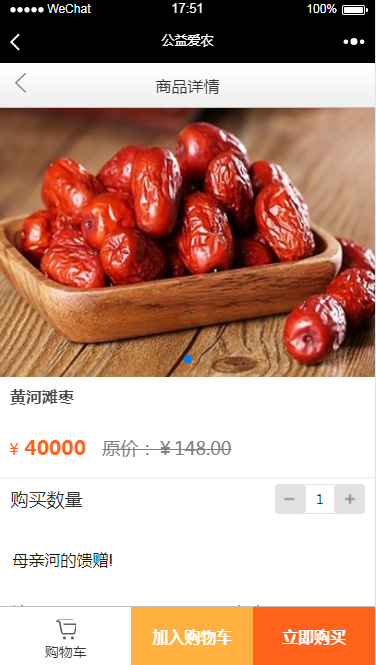
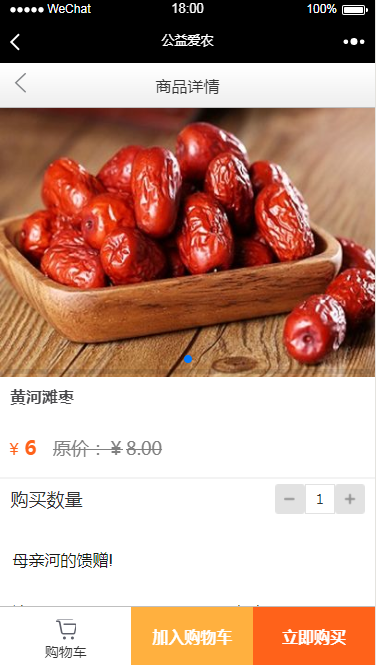
修改了现有几个实际项目图片的错误

Changed region(s): [[0.2633, 0.6617, 0.6144, 0.6917], [0.0585, 0.6617, 0.234, 0.6917], [0.4681, 0.0, 0.5559, 0.0301]]

diff --git a/SUMMARY.md b/SUMMARY.md
@@ -60,8 +60,7 @@
   * [商品列表页](real_project_chapter/list_page.md)
   * [商品详情页](real_project_chapter/show_page.md)
   * [修改微信中的标题](real_project_chapter/change_wechat_title.md)
-  * [购物车]
-  * [分享给微信好友]
+  * [购物车](real_project_chapter/chart.md)
   * [微信支付]
   * [部署到服务器]
   * [域名的配置]
